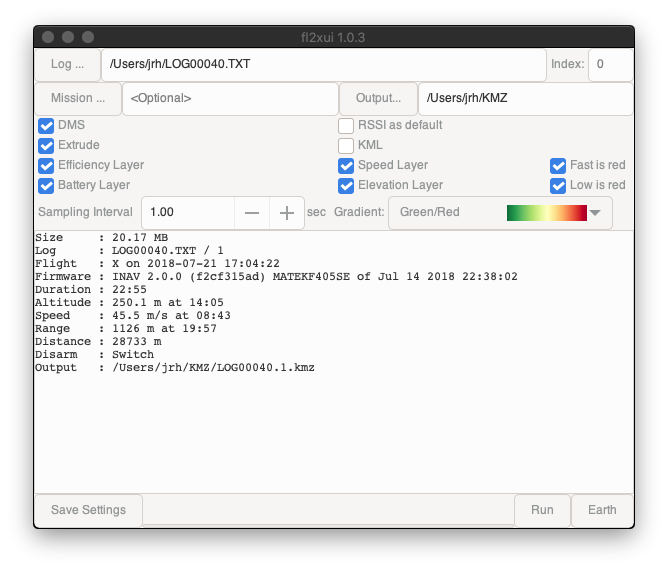
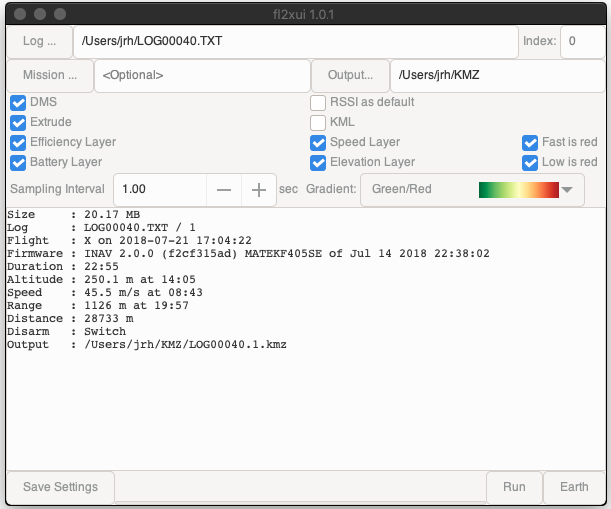
updates docs with correct version

Changed region(s): [[0.0, 0.0, 1.0, 1.0]]

diff --git a/docs/docs/index.md b/docs/docs/index.md
@@ -159,7 +159,7 @@ fl2xui Attempts to detect the presence of Google Earth. Only if this fails is it
 
         "ge-name" :  "/Applications/Google Earth Pro.app/Contents/MacOS/Google Earth"
 
-  It is also unlikely that it will actually load your files, MacOS appears not to behave as other OS. Advice on how to resolve this would be appreciated.
+    It is also unlikely that macOS will actually load your files into Earth. Advice on how to resolve this would be appreciated.
 
 ## Author and Licence
 
